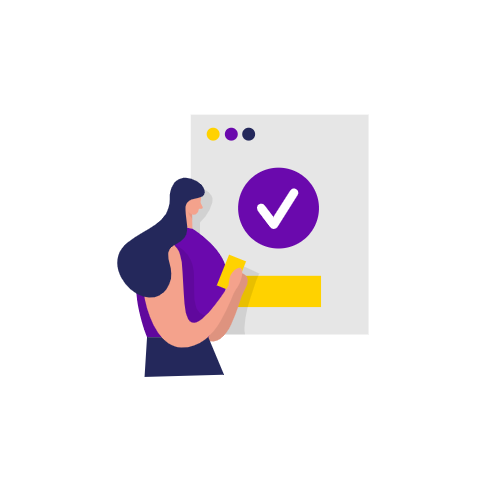
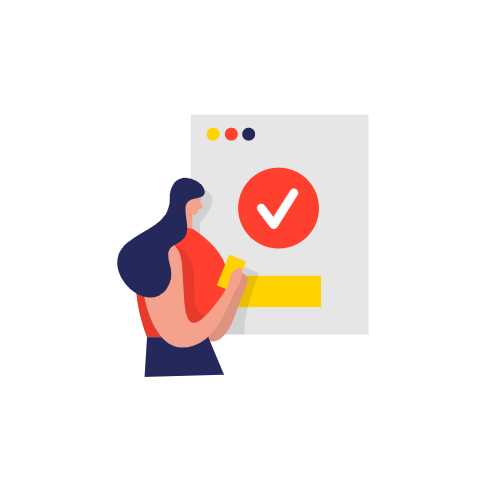
cambio de color de las tarjetas y hover

diff --git a/css/estilosLogo.css b/css/estilosLogo.css
@@ -1,5 +1,7 @@
 @import url('https://fonts.googleapis.com/css2?family=Open+Sans&display=swap');
 
+/* background-image: linear-gradient(#e93a00,#f7941e); */
+
 * {
     margin: 0%;
     padding: 0%;
@@ -7,9 +9,9 @@
     font-family: 'Open Sans', sans-serif;
 }
 
-:root{
+:root {
 
-    --color-1:#FBF9FE;
+    --color-1: #FBF9FE;
 }
 
 main {
@@ -136,7 +138,7 @@ header {
 
 .tarjetas:hover {
     border-radius: 20px;
-    box-shadow: 0px 2px 10px #8E29F2;
+    box-shadow: 0px 2px 10px #F28379;
     transform: translateY(-5%);
     font-weight: bold;
 }
@@ -165,16 +167,21 @@ header {
     margin: 30px;
     text-align: center;
     /* width: 300px; */
+    border-color: #ccc6c6;
+    border-style: outset;
+}
+
+.imagen-precio {
     position: relative;
 }
 
-.item img {
+.imagen-precio img {
     height: 180px;
     padding: 20px;
 }
 
 
-.precio{
+.precio {
     background-color: #000000;
     width: 60px;
     height: 30px;
@@ -182,9 +189,10 @@ header {
     padding: 5px;
     position: absolute;
     right: 0;
+    bottom: 30px;
 }
 
-.container-descripcion{
+.container-descripcion {
     display: flex;
     justify-content: flex-end;
     flex-wrap: wrap;
@@ -192,7 +200,7 @@ header {
 }
 
 
-.container-descripcion p{
+.container-descripcion p {
     padding: 20px;
     margin: 10px;
 }

diff --git a/logo.html b/logo.html
@@ -64,7 +64,7 @@
 
         <section id="pasos">
             <article class="tarjetas">
-                <img src="img/tj2/lumiere-blond-man-.png" alt="paso1">
+                <img src="img/tj2/Web Developer_Two Color.png" alt="paso1">
                 <p>Elegí el curso que más te interese</p>
             </article>
             <article class="tarjetas">
@@ -72,7 +72,7 @@
                 <p>Registrate en la plataforma</p>
             </article>
             <article class="tarjetas">
-                <img src="img/tj2/team.png" alt="paso3">
+                <img src="img/tj2/Team success _Two Color.png" alt="paso3">
                 <p>¡Genial! Ya sos parte de Coderland</p>
             </article>
 
@@ -84,10 +84,11 @@
 
             <section id="contenedor-items">
                 <article class="item">
-                    <img src="img/icons/html_log.png" alt="">
 
-                    <p class="precio">$5000</p>
-
+                    <div class="imagen-precio">
+                        <img src="img/icons/html_log.png" alt="">
+                        <p class="precio">$5000.-</p>
+                    </div>
 
                     <div class="container-descripcion">
                         <p> 60 hs</p>
